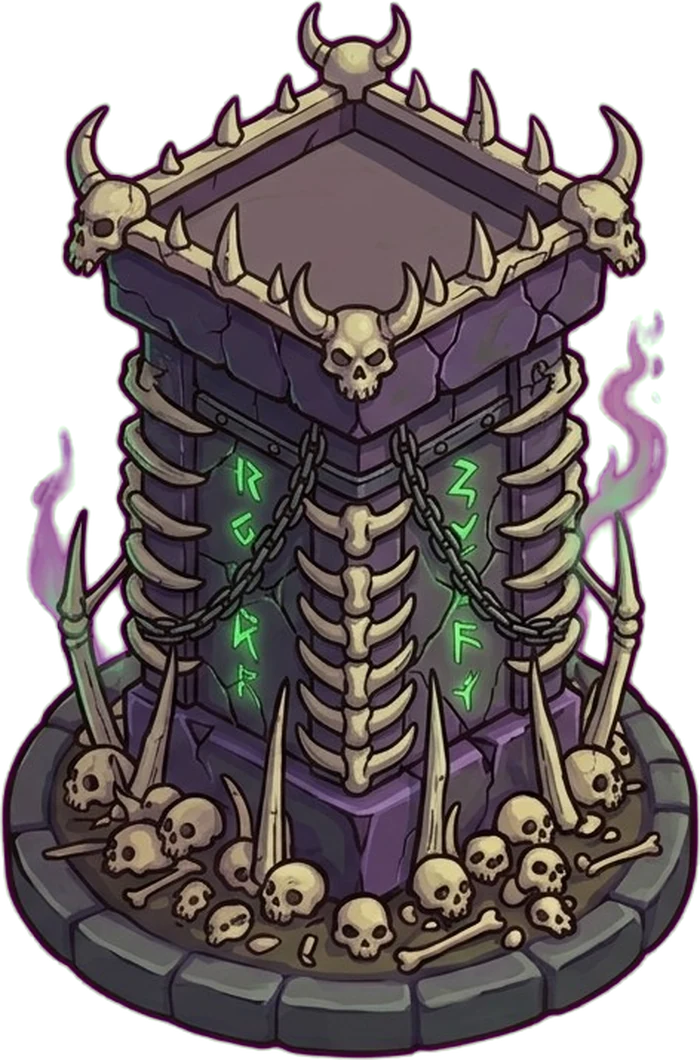
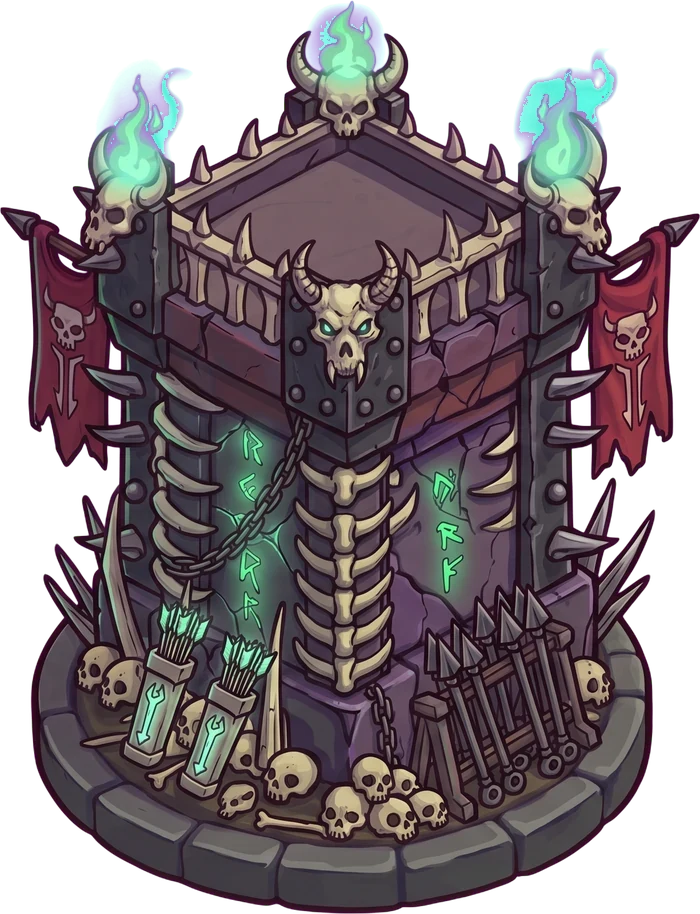
Kemik Kulesi 1-3. kademe yeni görseller (Gemini): kemik bağlı gözcü kulesi, kaburgalı kule, kara taş ölüm kulesi; platform ölçüleri, okçu boyu, run/alev/göz efektleri.

diff --git a/sinir-kalesi/js/game.js b/sinir-kalesi/js/game.js
@@ -5763,9 +5763,10 @@ const XBOW = { speed: 0.22, gap: 0.13, aim: 0.3, kick: 0.16, hold: 0.55, tip: [0
 // platform ölçüleri kule görseline göre (görsel kesirleri): x gezinme aralığı, y ayak derinliği, h arbaletçi boyu (hepsinde aynı mutlak boy), clip ön korkuluk
 // 4. kademe kulesi (tower_archer_fan) 3. kademeden kısa kalıyordu (Caner, 10 Eki): w 1.14 ile ~140 birim (3. kademe 134); h buna göre küçüldü (askerin boyu aynı)
 const XBOW_T = {
-  tower_xbow_1: { x: [0.47, 0.47], y: [0.19, 0.22], h: 0.1995, clip: null },
-  tower_xbow_2: { x: [0.37, 0.63], y: [0.17, 0.22], h: 0.191, clip: [[0, 0.08], [0.11, 0.08], [0.5, 0.2], [0.85, 0.09], [1, 0.09]] },
-  tower_xbow_3: { x: [0.3, 0.6], y: [0.21, 0.27], h: 0.166, clip: [[0, 0.17], [0.04, 0.17], [0.43, 0.3], [0.84, 0.16], [1, 0.16]] },
+  // 11 Eki: 1-3. kademe 2. tasarım (Gemini, nm_kemik_kulesi_k123.jpg); okçu boyu öncekiyle aynı mutlak boy (h = 176 / görsel dünya boyu)
+  tower_xbow_1: { x: [0.38, 0.6], y: [0.13, 0.19], h: 0.229, clip: null },
+  tower_xbow_2: { x: [0.34, 0.66], y: [0.13, 0.2], h: 0.181, clip: [[0, 0.15], [0.07, 0.15], [0.5, 0.25], [0.93, 0.15], [1, 0.15]] },
+  tower_xbow_3: { x: [0.36, 0.64], y: [0.16, 0.23], h: 0.15, clip: [[0, 0.18], [0.13, 0.18], [0.5, 0.29], [0.9, 0.18], [1, 0.18]] },
   tower_archer_fan: { x: [0.34, 0.66], y: [0.16, 0.23], h: 0.1586, clip: [[0, 0.2], [0.22, 0.2], [0.5, 0.29], [0.78, 0.2], [1, 0.2]] }, // 11 Eki: Ağır Arbaletçiler burcu (Gemini)
   tower_archer_bow: { x: [0.34, 0.66], y: [0.16, 0.22], h: 0.149, clip: [[0, 0.19], [0.22, 0.19], [0.5, 0.28], [0.78, 0.19], [1, 0.19]] }, // 11 Eki: Hayalet Okçular kulesi (Gemini)
 };
@@ -6782,9 +6783,9 @@ function drawPlagueCauldron(t, ts) {
 // runes: [x, üst y, alt y, renk] aşağıdan yukarı akan run ışığı; flames: yandaki ruh alevleri (titrer, kıvılcım savurur);
 // eyes: kafatası gözleri; top: tepedeki kafes (çevresinde dönen ruh zerreleri) [x, y, yarıçap]
 const BONE_FX = {
-  tower_xbow_1: { runes: [[0.33, 0.6, 0.72, '110,255,140'], [0.61, 0.6, 0.72, '110,255,140']], top: [0.52, 0.1, 0.32] },
-  tower_xbow_2: { runes: [[0.38, 0.38, 0.66, '110,255,140'], [0.62, 0.38, 0.66, '110,255,140']], flames: [[0.1, 0.55, '170,90,255'], [0.92, 0.32, '200,110,255']], eyes: [[0.13, 0.17], [0.85, 0.17], [0.5, 0.3]], top: [0.5, 0.13, 0.36] },
-  tower_xbow_3: { runes: [[0.36, 0.42, 0.66, '110,255,140'], [0.66, 0.42, 0.66, '110,255,140']], flames: [[0.06, 0.47, '120,255,150'], [0.95, 0.36, '190,110,255']], eyes: [[0.48, 0.275], [0.53, 0.275], [0.12, 0.2], [0.88, 0.2]], top: [0.5, 0.14, 0.4] },
+  tower_xbow_1: { runes: [[0.17, 0.74, 0.79, '110,255,140'], [0.43, 0.74, 0.79, '110,255,140']], top: [0.47, 0.12, 0.3] },
+  tower_xbow_2: { runes: [[0.36, 0.44, 0.65, '110,255,140'], [0.68, 0.44, 0.62, '110,255,140']], flames: [[0.5, 0.03, '120,255,220'], [0.07, 0.11, '120,255,220'], [0.93, 0.11, '120,255,220'], [0.5, 0.21, '120,255,220']], top: [0.5, 0.13, 0.36] },
+  tower_xbow_3: { runes: [[0.36, 0.45, 0.6, '110,255,140'], [0.66, 0.42, 0.52, '110,255,140']], flames: [[0.52, 0.02, '120,255,220'], [0.15, 0.09, '120,255,220'], [0.92, 0.09, '120,255,220']], eyes: [[0.505, 0.215], [0.54, 0.215]], top: [0.5, 0.14, 0.36] },
   tower_archer_fan: { runes: [[0.34, 0.47, 0.6, '230,90,210'], [0.66, 0.47, 0.6, '230,90,210']], top: [0.5, 0.17, 0.38] }, // Ağır Arbaletçiler burcu
   tower_archer_bow: { runes: [[0.37, 0.46, 0.62, '110,255,170'], [0.63, 0.46, 0.62, '110,255,170']], flames: [[0.5, 0.05, '120,255,220'], [0.22, 0.13, '120,255,220'], [0.78, 0.13, '120,255,220'], [0.5, 0.25, '120,255,220'], [0.09, 0.42, '120,255,230'], [0.9, 0.4, '120,255,230']], eyes: [[0.49, 0.33], [0.52, 0.33]], top: [0.5, 0.17, 0.36] }, // Hayalet Okçular: hayalet alevler ve fenerler
 };

diff --git a/sinir-kalesi/index.html b/sinir-kalesi/index.html
@@ -11,7 +11,7 @@
 <canvas id="game" aria-label="Sınır Kalesi oyun alanı"></canvas>
 <script>
   // Sürüm damgası: her yayında artırılır; tarayıcı eski önbellek kopyasını kullanmaz (js ve görseller).
-  window.SURUM = '344';
+  window.SURUM = '345';
   // dil: kayıtlı seçim (yoksa Türkçe); tr/en dışındakiler için çeviri sözlüğü dil.js'ten önce yüklenir
   window.__dilYukle = (function () {
     var l = null; try { l = localStorage.getItem('sinirKalesi.lang'); } catch (e) {}

diff --git a/sinir-kalesi/yayin.html b/sinir-kalesi/yayin.html
@@ -11,7 +11,7 @@
 <canvas id="game" aria-label="Sınır Kalesi oyun alanı"></canvas>
 <script>
   // Sürüm damgası: her yayında artırılır; tarayıcı eski önbellek kopyasını kullanmaz (js ve görseller).
-  window.SURUM = '344';
+  window.SURUM = '345';
   // dil: kayıtlı seçim (yoksa Türkçe); tr/en dışındakiler için çeviri sözlüğü dil.js'ten önce yüklenir
   window.__dilYukle = (function () {
     var l = null; try { l = localStorage.getItem('sinirKalesi.lang'); } catch (e) {}

diff --git a/varliklar/nm_isle.py b/varliklar/nm_isle.py
@@ -26,6 +26,7 @@ SHEETS = [
     ('nm_fener_4.jpg', [None, None], 'decor'),  # eski 4. kademe fenerler  # 4. kademe: Ruh Emici (kristal), Ruh Kafesi
     ('nm_dikilitas_4.jpg', ['tower_archer_nail', None], 'decor'),  # 4. kademe: Kemik Balistası (Hayalet Okçular artık nm_hayalet_okcular.jpg'den)
     ('nm_hayalet_arbaletciler.jpg', ['unit_ghostxbow', 'unit_ghostxbow_aim'], 'decor'),  # 11 Eki: arbaletçi kulesinin iskeletleri (hazır, nişan)
+    ('nm_kemik_kulesi_k123.jpg', ['tower_xbow_1', 'tower_xbow_2', 'tower_xbow_3'], 'tower'),  # 11 Eki: Kemik Kulesi 1-3. kademe 2. tasarım (platform boş, okçular kodla)
     ('nm_kemik_kulesi_k4.jpg', ['tower_archer_bow', 'tower_archer_fan'], 'tower'),  # 11 Eki: Kemik Kulesi 4. kademe (Hayalet Okçular / Ağır Arbaletçiler; platform boş, okçular kodla)
     ('nm_hayalet_okcular.jpg', ['unit_ghostarcher', 'unit_ghostarcher_draw', None], 'decor'),  # 3. parça (eski 4. kademe kulesi) artık nm_kemik_kulesi_k4.jpg'den  # 10 Eki: tepesi boş kule + üstünde gezen 2 elit okçu (duruş, gerilmiş yay)
     ('nm_mahzen_v2.jpg', [None, None, None], 'tower'),  # 11 Eki: yeni Mahzen (yarı gömülü mahzen, kemik mahzeni, kafatası kapılı kara türbe; eski: nm_mezarlik.jpg, nm_mahzen.jpg)
